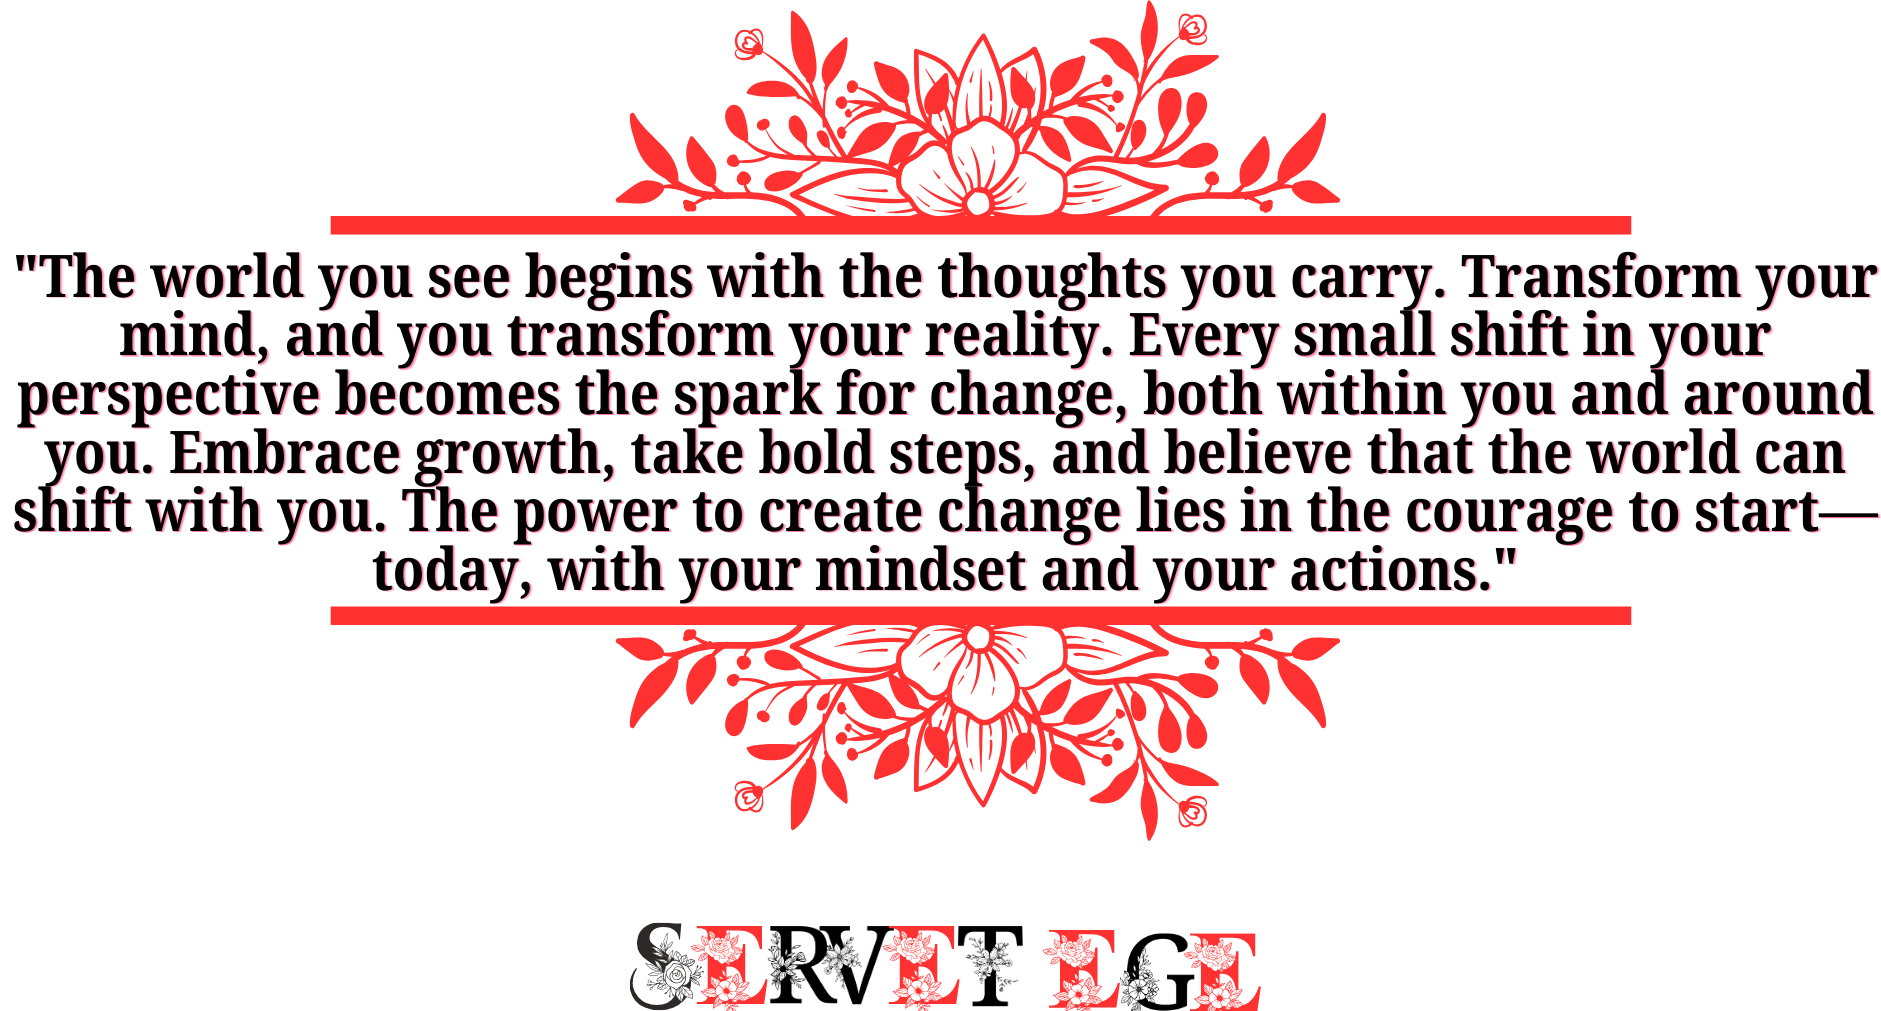
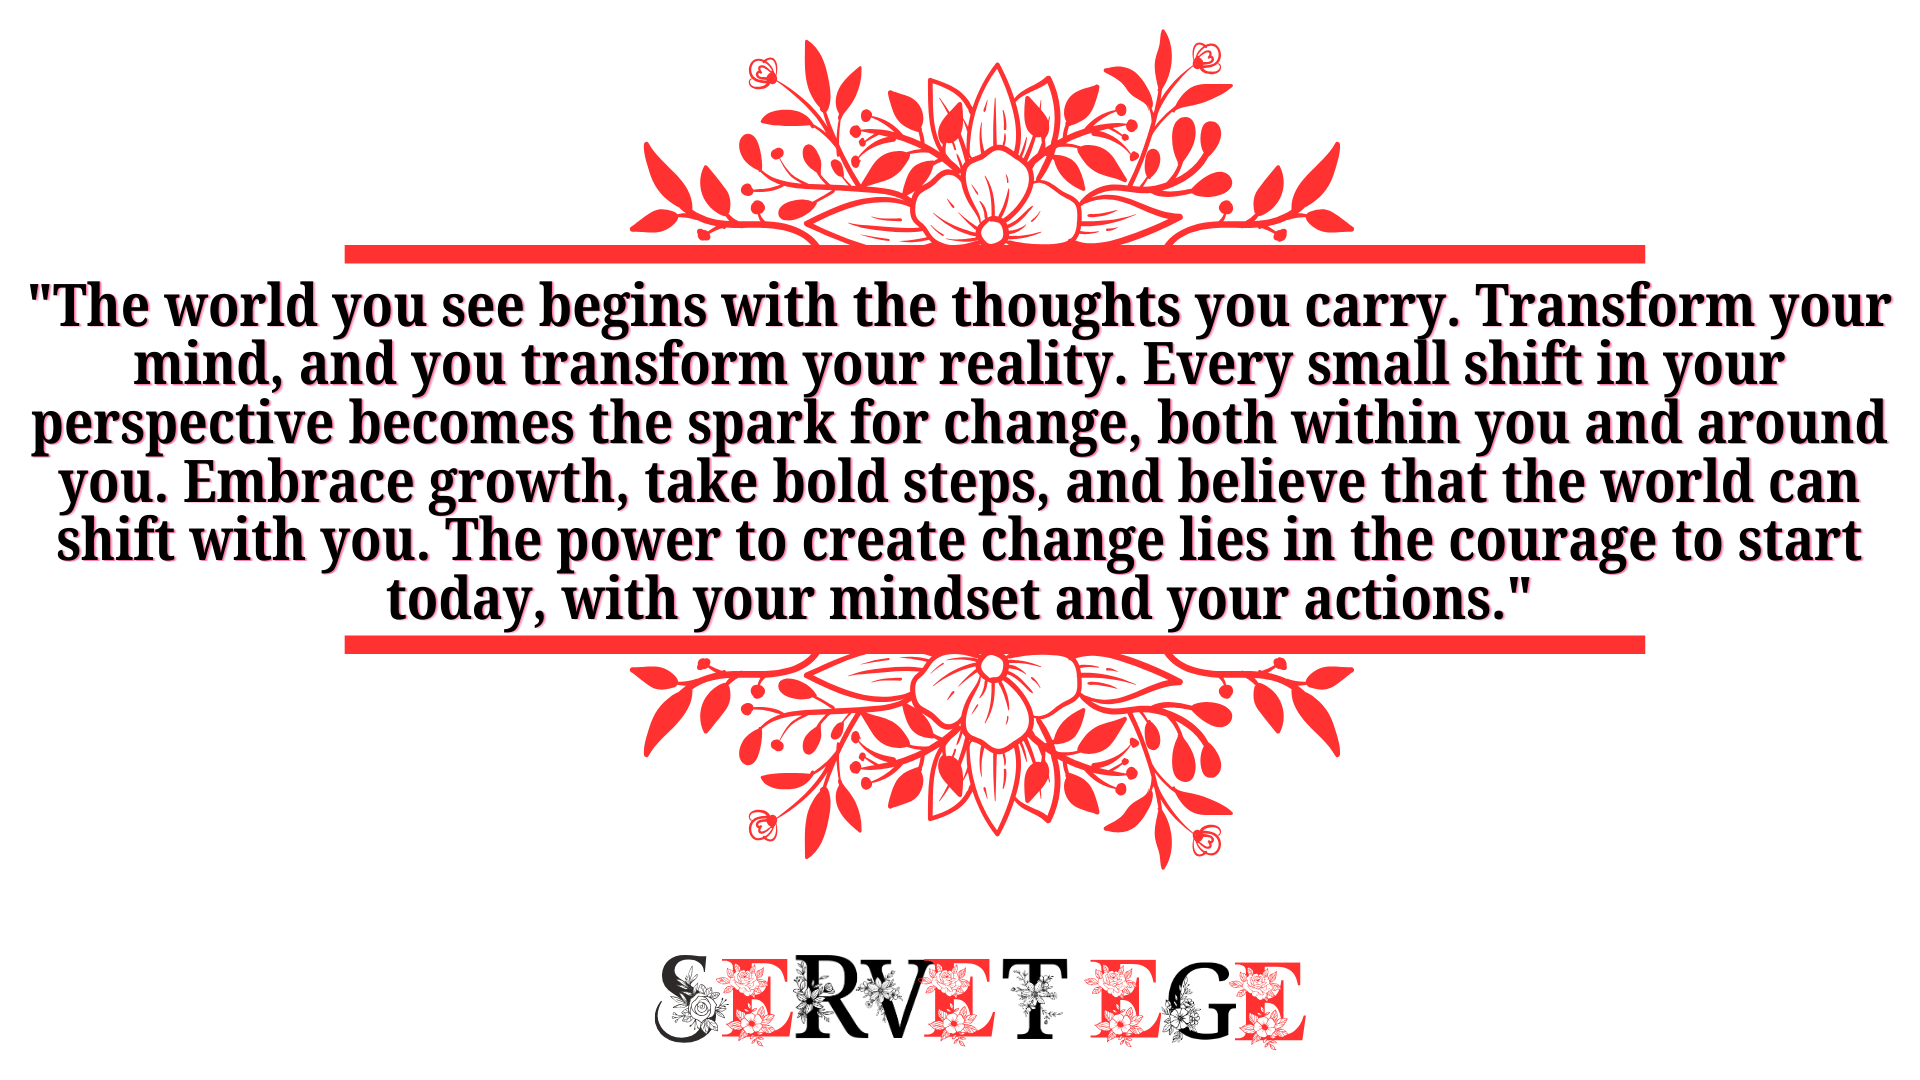
Pages Revisionns: Index, about, empowerment

Changed region(s): [[0.0, 0.0, 1.0, 0.8279], [0.3392, 0.8586, 0.6784, 1.0]]

diff --git a/assets/css/main.css b/assets/css/main.css
@@ -1083,7 +1083,7 @@ Banner Style
 }
 
 .main-banner .item p.two {
-  font-size: 17px;
+  font-size: 1px;
   font-weight: 100;
   color: #000000;
   margin-bottom: 0px;
@@ -1339,7 +1339,7 @@ Services_Intro Style
 .services_intro .serviceshead img {
   display: block;
   margin: 0 auto;
-  width: 40%;
+  width: 50%;
   max-width: 100%;
   height: auto;
   padding-top: 60px;
@@ -1439,7 +1439,7 @@ Services_Intro Style
 .services_intro .qoute img {
   display: block;
   margin: 0 auto;
-  width: 70%;
+  width: 80%;
   max-width: 100%;
   height: auto;
   padding: 10px 0px 20px 0px;
@@ -1514,7 +1514,7 @@ Services_Brain Style
 }
 
 .services_brain .brain p.two {
-  font-size: 20px;
+  font-size: 28px;
   line-height: 1.3;
   font-weight: 700;
   color: #F60017;
@@ -1555,7 +1555,7 @@ Services_Brain Style
 }
 
 .services_brain .brain p.four {
-  font-size: 22px;
+  font-size: 28px;
   line-height: 1.3;
   font-weight: 600;
   color: #000000;
@@ -1640,7 +1640,7 @@ Services_Finance Style
 }
 
 .services_finance .finance p.two {
-  font-size: 20px;
+  font-size: 28px;
   line-height: 1.3;
   font-weight: 700;
   color: #F60017;
@@ -1666,7 +1666,7 @@ Services_Finance Style
 }
 
 .services_finance .finance p.four {
-  font-size: 22px;
+  font-size: 28px;
   line-height: 1.3;
   font-weight: 600;
   color: #000000;
@@ -2968,7 +2968,7 @@ Empowerment Style
   color: #000000;
   border-radius: 8px;
   padding: 5px 0px 100px 0px;
-  text-align: left;
+  text-align: justify;
   font-family: 'Calibri', normal;
   margin-left: 5%;
   margin-right: 5%;

diff --git a/pages/empowerment.php b/pages/empowerment.php
@@ -40,9 +40,9 @@
                                 <br><br>
                                 I am deeply dedicated to working with women because I know, from my personal experience,
                                 the challenges that our gender faces. As a woman, I have lived through the struggles,
-                                and I understand the obstacles we must overcome. It is <span class="highlighted-text">MY
+                                and I understand the obstacles that we need to overcome. It is <span class="highlighted-text">MY
                                     MISSION to HELP, SUPPORT, and
-                                    EMPOWER US AS WOMEN</span>—lifting each other up and embracing our strength.
+                                    EMPOWER US AS WOMEN</span> also lifting each other up and embracing our strength.
                                 <br><br>
                                 Throughout my own journey, I have encountered gender-specific challenges in the
                                 workplace and beyond. As women, we often face societal expectations that limit our
@@ -50,17 +50,17 @@
                                 pressure of balancing career and family life.
                                 <br><br>
                                 Growing up in an environment that affected by domestic violence, I experienced firsthand
-                                how women’s mental health can be severely impacted. I have seen how trauma—especially
+                                how women’s mental health can be severely impacted by abusive relationship. I have seen how trauma—especially
                                 Narcissistic Abuse—can quietly devastate a woman's life. Many of the women that I work
                                 with have spent years suffering in silence, trapped in toxic relationships, unable to
-                                break free from the cycles of emotional manipulation and control.
+                                break free from the cycles of emotional, manipulation and control.
                                 <br><br>
                                 <span class="highlighted-text">Rapid Transformational Hypnotherapy (RTT)</span> offers a
                                 powerful, holistic approach to
                                 healing. RTT works by addressing the root causes of trauma, empowering the subconscious
                                 mind to release limiting beliefs, emotional pain, and patterns that keep women stuck in
                                 unhealthy cycles. Through RTT, women can uncover the hidden beliefs that keep them
-                                trapped, often beliefs about their worth, their ability to set boundaries, or their fear
+                                trapped, these often beliefs about their worth, their ability to set boundaries, or their fear
                                 of change.
                                 <br><br>
                                 By accessing the subconscious mind, RTT helps women to reprogram these negative thought
@@ -74,7 +74,7 @@
                                 Beyond personal trauma, women face cultural and societal barriers that reinforce
                                 feelings of inadequacy, whether it’s from unrealistic beauty standards, or the
                                 underrepresentation in leadership positions. We are often taught to suppress our voices
-                                or to place the needs of others before our own, leading to burnout and a loss of
+                                or to place the needs of others before our own, this leads feeling burnout and a loss of
                                 self-worth.
                                 <br><br>
                                 Many women also experience challenges related to gender inequality in the workplace,

diff --git a/pages/about_me.php b/pages/about_me.php
@@ -87,9 +87,7 @@
                                 industry, particularly in relation to <span class="highlighted-text">LGBTQ+
                                     Community.</span> I wholeheartedly embrace and
                                 celebrate the richness of LGBTQ+ Community, acknowledging from my personal experience
-                                that the unique challenges they may face. Furthermore, I support SMEs in scaling their
-                                operations, developing teams, driving profitability, and implementing effective
-                                financial systems, controls, and efficiency measures. While, I am enjoying my career in
+                                that the unique challenges they may face. Furthermore, I help SMEs grow by developing their teams, driving profitability, implementing effective financial systems and controls, and scaling their operations. While, I am enjoying my career in
                                 Finance and Education, my childhood dream of becoming a scientist always remains close
                                 to my heart, soul and mind.
                             </p>
@@ -287,13 +285,12 @@
                             <li>Member of The British Neuroscience Association
                                 <b>(BNA)</b>
                             </li>
-                            <li>Member of The International Association of Counsellors &
-                                Therapists <b>(I.A.C.T.)</b></li>
+                            <li>Member of British Society of Clinical and Academic Hypnosis <b>(BSCAH)</b></li>
                             <li>Member of The International Hypnotherapy Association
                                 <b>(IHA)</b>
                             </li>
-                            <li>Member of The National Council for Hypnotherapy
-                                <b>(NCH)</b>
+                            <li>Member of The National Hypnotherapy Society
+                                <b>(NHS)</b>
                             </li>
                             <li>Member of The Institute of Leadership & Management
                                 <b>(ILM)</b>

diff --git a/pages/index.php b/pages/index.php
@@ -11,7 +11,7 @@
                 <div class="header-text">
                     <h2 class="one">Welcome to Self-Transforming Brain!</h2>
                     <p class="one"><span class="highlighted-text">I’M SERVET EGE</span>, a Certified Rapid
-                        Transformational Hypnotherapist, RTT Therapist and Qualsified Brain & Finance Coach. I work
+                        Transformational Hypnotherapist, RTT Therapist and Qualified Brain & Finance Coach. I work
                         with Women and Students to help them to discover and unlock the power of their mind and
                         transform their lives. My mission is simple: to empower Women and Students to take control
                         of their thoughts, mindset, and habits so they can live a life that’s not only fulfilling
@@ -21,7 +21,7 @@
                     <h3 class="one">I’m thrilled to have you here and look forward to being a part of your
                         transformation!
                     </h3>
-                    <br><br><br>
+                    <br><br>
                     <span class="category one">BOOK A FREE CALL</span> <span class="transparent">DISCOVER
                         MORE</span>
                     <p class="one">LONDON, ESSEX – WORLDWIDE VIA ZOOM</p>
@@ -316,6 +316,7 @@
                                 is crucial and key to our overall physical and mental well-being.
                             </p>
                             <a href="#" class="btn btn-primary">LEARN ABOUT BRAIN AND SELF-IMAGE COACHING</a>
+                            <br>
                         </div>
                     </div>
 
